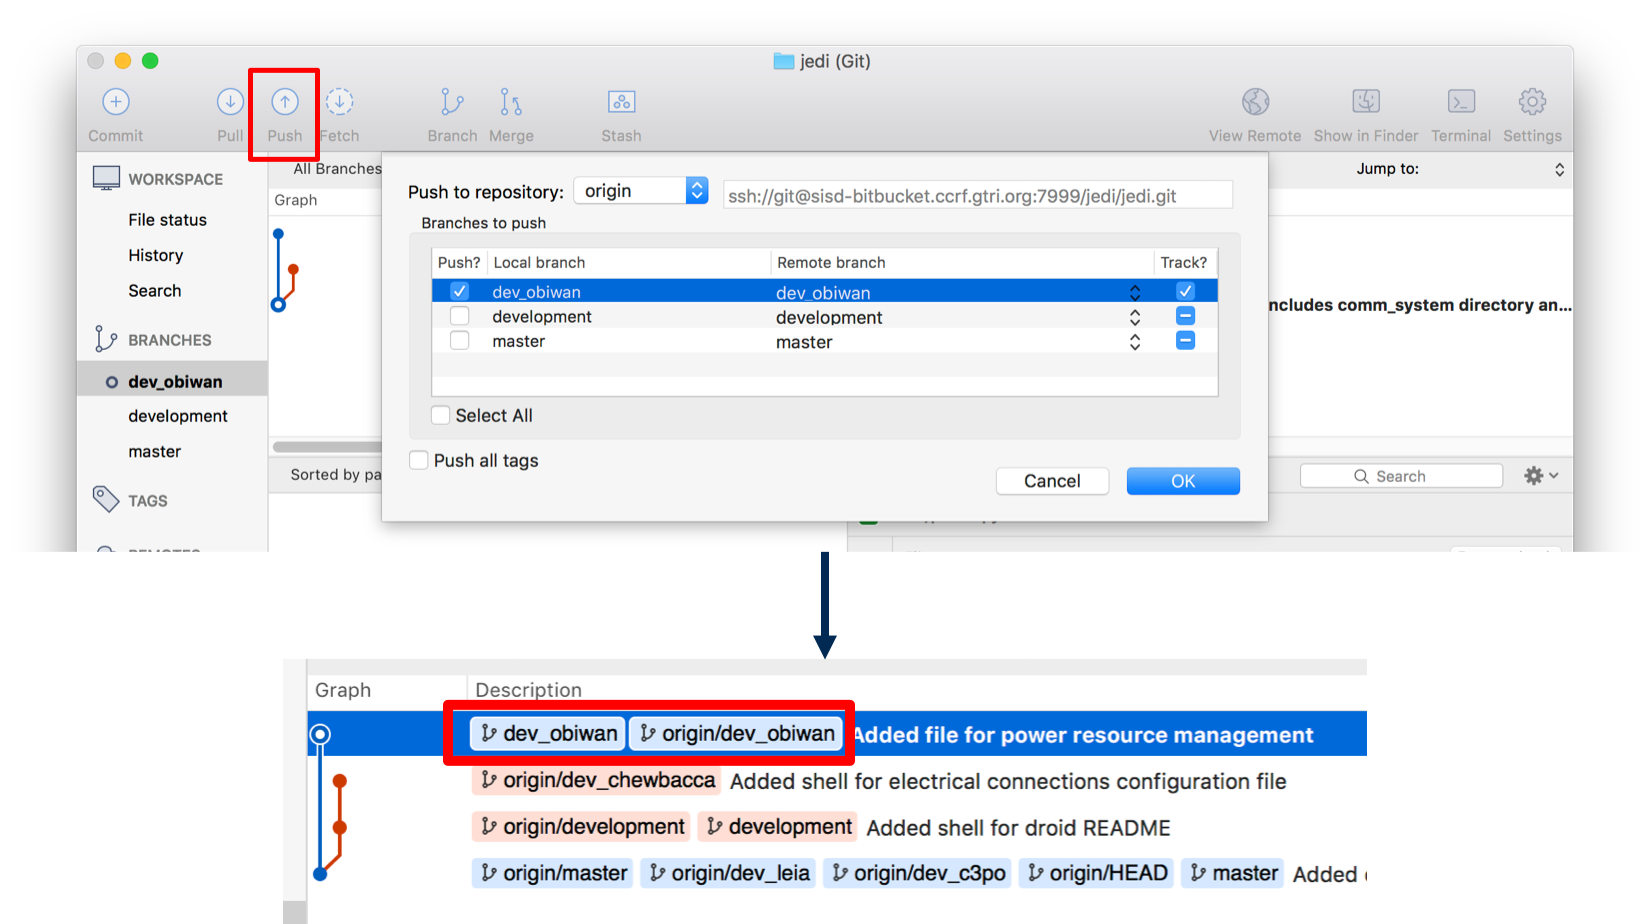
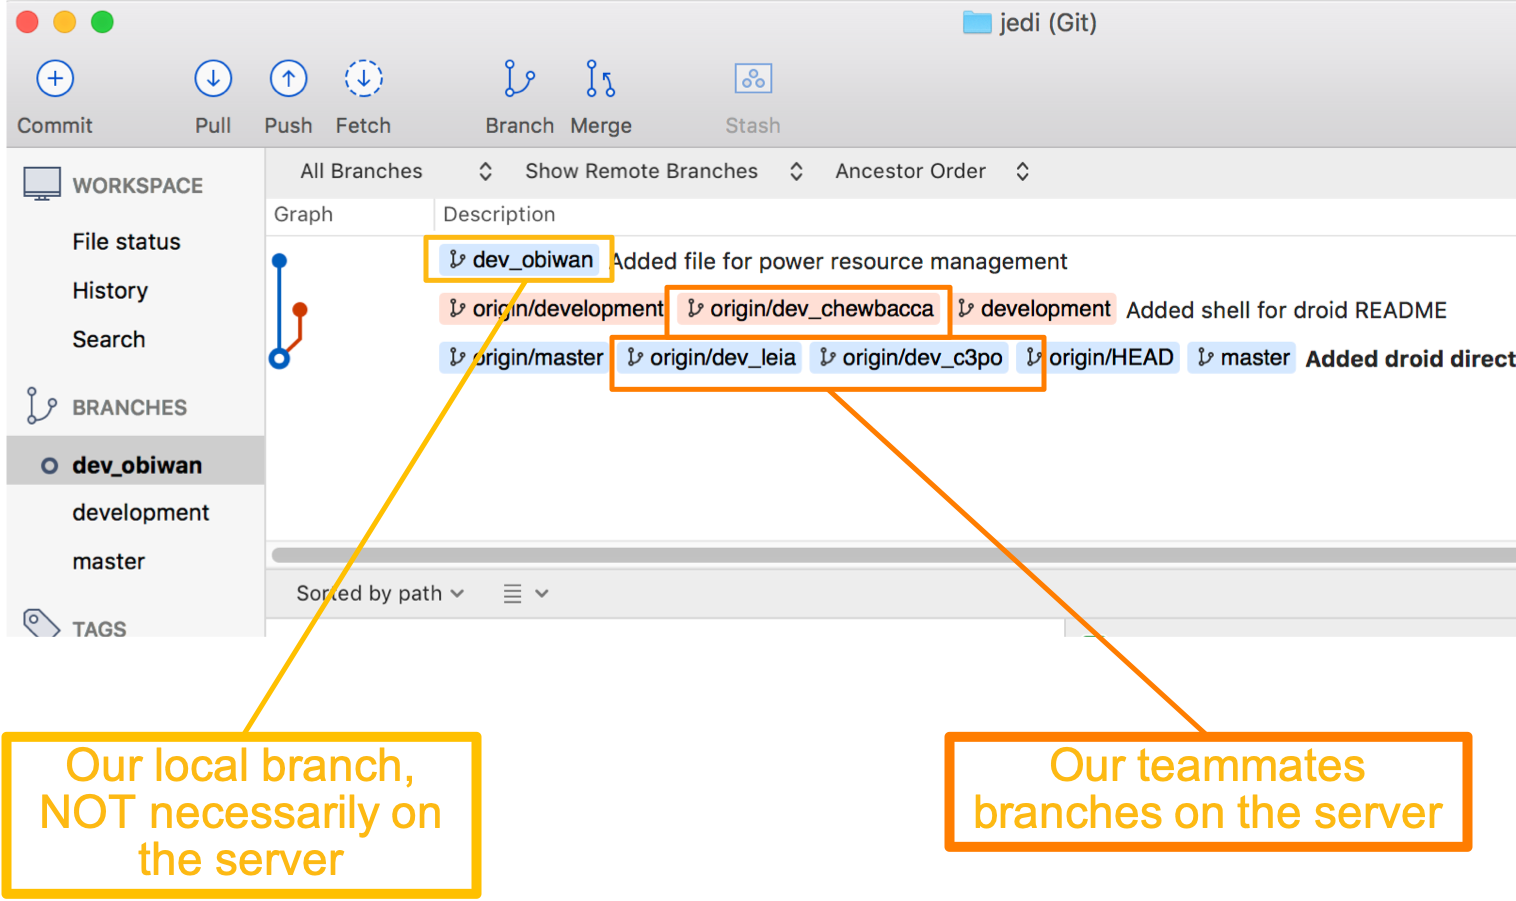
Finished basics of SourceTree

diff --git a/basics-sourcetree.html b/basics-sourcetree.html
@@ -89,8 +89,8 @@
         <section data-transition="slide-in fade-out">
             <h4>Creating a Local Repository</h4>
             <p class="common-text-center">
-                To create a local repository using SourceTree, go to the "Local" tab and select<br>
-                New... > Create Local Repository
+                To create a local repository using SourceTree, go to the <em>Local</em> tab and select<br>
+                <em>New... > Create Local Repository</em>
             </p>
             <img src="img/basics/sourcetree/create-local-repo-1.png" alt="" width="80%" height="inherit">
         </section>
@@ -132,25 +132,19 @@
                 <br><br>
                 Let’s add some fake files as an example.
             </p>
-            <div class="div-whole-of-parts">
-                <div style="float: left; width: 70%;">
-                    <img src="img/basics/sourcetree/view-repo.png" alt="Empty repository" width="100%">
-                </div>
-                <div style="float: left; width: 30%;">
-                    <img src="img/basics/sourcetree/add-file.png" alt="Adding a file" width="100%">
-                </div>
-            </div>
+            <img src="img/basics/sourcetree/add-file.png" alt="Adding a file" width="70%">
         </section>
         <section data-transition="fade-in fade-out">
             <h4>Viewing Local Changes</h4>
             <p class="common-text-justified">
-                Here we've added a directory ("droid") for software used in developing dummy droids for Jedi training.
+                Here we've added a directory (<em>droid</em>) for software used in developing dummy droids for
+                Jedi training.
                 Inside the directory is a file and a subdirectory with a file.
             </p>
             <p class="common-text-center">
                 Let’s analyze the relevant new pieces here.
             </p>
-            <img src="img/basics/sourcetree/view-local-changes.png" alt="Local changes" width="80%" height="inherit">
+            <img src="img/basics/sourcetree/view-local-changes.png" alt="Local changes" width="70%" height="inherit">
         </section>
         <section data-transition="fade-in fade-out">
             <h4>Viewing Local Changes</h4>
@@ -159,14 +153,7 @@
                 <br>
                 This is because SourceTree sees two new files.
             </p>
-            <div class="div-whole-of-parts">
-                <div style="float: left; width: 30%;">
-                    <img src="img/basics/sourcetree/num-changes-since-last-commit.png" alt="Adding a file" width="100%">
-                </div>
-                <div style="float: left; width: 70%;">
-                    <img src="img/basics/sourcetree/view-local-changes.png" alt="Local changes" width="100%">
-                </div>
-            </div>
+            <img src="img/basics/sourcetree/view-local-changes.png" alt="Local changes" width="70%">
         </section>
         <section data-transition="fade-in fade-out">
             <h4>Viewing Local Changes</h4>
@@ -250,7 +237,7 @@
         <section data-transition="slide-in fade-out">
             <h4>Committing Changes</h4>
             <p class="common-text-center">
-                Now that we've staged the files we want to commit, select the "Commit" button.
+                Now that we've staged the files we want to commit, select the <em>Commit</em> button.
             </p>
             <div class="div-whole-of-parts">
                 <div style="float: left; width: 30%;">
@@ -264,7 +251,7 @@
         <section data-transition="fade-in fade-out">
             <h4>Committing Changes</h4>
             <p class="common-text-center">
-                Now that we’ve selected “Commit”, we must add a message to describe the changes.
+                Now that we’ve selected <em>Commit</em>, we must add a message to describe the changes.
             </p>
             <img src="img/basics/sourcetree/commit-message.png" alt="Adding a commit message"
                  width="80%" height="inherit">
@@ -286,14 +273,11 @@
         </section>
         <section data-transition="fade-in slide-out">
             <h4>Committing Changes</h4>
-            <p class="common-text-center">
-                Now that we’ve added a message and hit “Commit”, we see this screen.
-                <br>
+            <p class="common-text-justified">
+                Now that we’ve added a message and hit <em>Commit</em>, we see this screen.
                 <u>What is this screen telling us?</u>
-                <br>
                 It is telling us that there have been no changes to our repository since the last commit we made.
-                <br>
-                Let’s view the history of the commits now. Select the “History” item under “Workspace”
+                Let’s view the history of the commits now. Select the <em>History</em> item under <em>Workspace</em>
             </p>
             <img src="img/basics/sourcetree/nothing-to-commit.png" alt="No changes to commit"
                  width="80%" height="inherit">
@@ -321,11 +305,13 @@
         <section data-transition="fade-in slide-out">
             <h4>Resetting Changes</h4>
             <p class="common-text-justified">
-                To reset the changes made to this file, right-click on the file within SourceTree and select “Reset…”.
-                Note that we also see “Reset to Commit…”. This latter option is only useful if we want to reset the file
-                to some commit further back in history, not immediately previous to your current state.
+                To reset the changes made to this file, right-click on the file within SourceTree and select
+                <em>Reset...</em>.
+                Note that we also see <em>Reset to Commit…</em>.
+                This latter option is only useful if we want to reset the file to some commit further back in history,
+                not immediately previous to your current state.
                 You will likely receive a prompt asking you if you are sure you want to do this. If you are,
-                select "Yes."
+                select <em>Yes</em>.
                 In this case, you'll return to the empty <b>File Status</b> screen.
             </p>
             <img src="img/basics/sourcetree/resetting-changes-2.png" alt="Resetting changes"
@@ -362,12 +348,16 @@
         <section data-transition="fade-in slide-out">
             <h4>Clone Down Repository from Server</h4>
             <p class="common-text-justified">
-                Assuming you can view the repositories though, you will see all the repositories on the Bitbucket server that you have been granted access to.  You can also use the top-right search bar to narrow the selection down.
+                Assuming you can view the repositories though, you will see all the repositories on the
+                server that you have been granted access to.
+                You can also use the top-right search bar to narrow the selection down.
 
-                Select “Clone” from the right-side of the repository you wish to clone down.
+                Select <em>Clone</em> from the right-side of the repository you wish to clone down.
                 You will see a pop-up window asking you where you would like to save the repository.
                 Again,
-                <u><b>ensure the destination path includes a legitimate folder and is NOT your home directory</b></u>.
+                <u><b><span style="color: yellow;">
+                    ensure the destination path includes a legitimate folder and is NOT your home directory
+                </span></b></u>.
             </p>
             <img src="img/basics/sourcetree/clone-2.png" alt="Details for cloning" width="80%">
         </section>
@@ -375,7 +365,7 @@
             <h4>Common Cloning Issue</h4>
             <div class="div-whole-of-parts">
                 <div class="div-left-half">
-                    <p class="common-text-justified">
+                    <p class="common-text-left">
                         Sometimes when cloning, you may see a hyperlink shown by the top image.
                         <br><br>
                         If you click the link, you may see details like those in the bottom image.
@@ -391,7 +381,7 @@
                         for problem analysis steps.
                     </p>
                 </div>
-                <div class="div-left-half">
+                <div class="div-right-half">
                     <img src="img/basics/sourcetree/clone-issue-1.png" alt="Clone issue">
                     <br>
                     <img src="img/basics/sourcetree/clone-issue-2.png" alt="Clone issue">
@@ -547,8 +537,6 @@
             </p>
             <img src="img/basics/sourcetree/create-branch-4.png" alt="Individual developer branch">
         </section>
-
-        <!-- TODO -->
         <section>
             <h4>Checkout a Different Branch</h4>
             <p class="common-text-justified">
@@ -561,33 +549,206 @@
             </p>
             <img src="img/basics/sourcetree/checkout-branch.png" alt="Process of checking out a branch" width="80%">
         </section>
-        <section>
-            <h4></h4>
+        <section data-background="white" data-transition="slide-in fade-out">
+            <h4>Pushing Changes to Server</h4>
             <p class="common-text-justified">
-
+                Okay so let’s make a change in push it to the server.
+                <u>Why do we push our changes to the server?</u>
+                Well, because when you positively contribute to the code base,
+                you need to share them with the rest of your team, whom also have access to the server.
+                <em><u><b>In this way, the distributed work becomes synchronized.</b></u></em>
             </p>
-            <img src="img/basics/sourcetree/blaaaah.png" alt="EXAMPLE">
+            <img src="img/basics/sourcetree/push-changes-1.png" alt="Pushing changes to server for team" width="70%">
+        </section>
+        <section data-transition="fade-in fade-out">
+            <h4>Pushing Changes to Server</h4>
+            <p class="common-text-justified">
+                In this example, let’s say we created a new script for managing power loads of the droid.
+                We create, stage and commit the <span class="code">power.py</span> file to our local branch.
+            </p>
+            <img src="img/basics/sourcetree/push-changes-2.png" alt="Push example" width="70%">
+        </section>
+        <section data-transition="fade-in fade-out">
+            <h4>Pushing Changes to Server</h4>
+            <p class="common-text-justified">
+                We can see that Chewbacca has also some pushed updates to the repository.
+                We’ll pull in those changes soon, but <u>let’s go ahead and push our changes out</u>.
+            </p>
+            <img src="img/basics/sourcetree/push-changes-3.png" alt="Push example" width="70%">
+        </section>
+        <section data-transition="fade-in fade-out">
+            <h4>Pushing Changes to Server</h4>
+            <p class="common-text-justified">
+                Select <em>Push</em> from the top-menu.
+                In the pop-up menu, select the branch that you want to push
+                – in this case it is only <span class="code">dev_obiwan</span>.
+                You will be pushing to the <em>origin</em> repository, unless you named it otherwise.
+                We are not covering tags in this section, so do not worry about checking that box.
+            </p>
+            <img src="img/basics/sourcetree/push-changes-4.png" alt="Pushing changes to server">
+        </section>
+        <section data-transition="fade-in slide-out">
+            <h4>Pushing Changes to Server</h4>
+            <p class="common-text-justified">
+                Once you select <em>OK</em> and push, you will see that <span class="code">origin/dev_obiwan</span>
+                has been added to the branch graph and is up-to-date with the local branch.
+            </p>
+            <p class="common-text-center">
+                <b><em>That's it!</em></b> Now other users can pull in your changes!
+            </p>
+            <img src="img/basics/sourcetree/push-changes-5.png" alt="Status after pushing changes">
         </section>
         <section>
-            <h4></h4>
+            <h4>When a Push Fails</h4>
             <p class="common-text-justified">
-
+                Sometimes a push is rejected by the server.
+                This usually occurs when you need to pull updates from the server <em>before</em>
+                pushing updates from your local branch.
             </p>
-            <img src="img/basics/sourcetree/blaaaah.png" alt="EXAMPLE">
+            <img src="img/basics/sourcetree/push-fail.png" alt="Push failure" width="70%">
+            <p class="common-text-justified">
+                Note the hints that SourceTree is trying to give you:<br>
+                <em>Updates were rejected because the remote contains work that you do not have locally.</em><br>
+                <em>You may first want to integrate the remote changes before pushing again.</em>
+            </p>
+            <p class="common-text-center">
+                <u>So to resolve this, we’ll need to pull updates first</u>.
+            </p>
+        </section>
+        <section data-transition="slide-in fade-out">
+            <h4>Fetching Changes from the Server</h4>
+            <p class="common-text-justified">
+                Git uses the term <em>fetch</em> to indicate it is grabbing updates from the server
+                and storing them locally -- but is <u>NOT</u> integrating them into any of your local branches.
+                <br><br>
+                To fetch updates, select the <em>Fetch</em> button from the top-menu.
+                You will likely only need to check the box <em>Fetch from all remotes</em>.
+                (The other options are beyond the scope of this section).
+            </p>
+            <img src="img/basics/sourcetree/fetch-1.png" alt="Fetch example" width="100%">
+        </section>
+        <section data-transition="fade-in slide-out">
+            <h4>Fetching Changes from the Server</h4>
+            <p class="common-text-justified">
+                You will notice that we fetched another update from Chewbacca’s branch.
+                He has not merged his latest change into the development branch,
+                so we’ll assume he’s still in development for now.
+                Let’s merge in the latest updates from the <span class="code">development</span> branch.
+            </p>
+            <img src="img/basics/sourcetree/fetch-2.png" alt="Fetch example" width="70%">
+        </section>
+        <section data-transition="slide-in fade-out">
+            <section>
+                <h4>Merge Changes from Branch</h4>
+                <p class="common-text-justified">
+                    To merge in changes from another branch or commit, select <em>Merge</em> from the top menu.
+                    Make sure you select <em>Merge from Log</em>.
+                    Select the commit that you want merge in.
+                    In our case, we want to merge in the <em>HEAD</em> of the
+                    <span class="code">development</span> branch.
+                </p>
+                <img src="img/basics/sourcetree/merge-1.png" alt="Merging in remote changes" width="60%">
+            </section>
+            <section>
+                <h4>Merge Changes from Branch</h4>
+                <img src="img/basics/sourcetree/merge-2.png" alt="Options during merge" width="60%">
+                <p class="common-text-justified">
+                    To explain the options at the bottom:<br>
+                    - <span style="color: yellow;"><b><em>Commit merge immediately (if no conflicts)</em></b></span> :
+                    This will make a commitment saying you’ve merged in changes from another branch
+                    immediately upon merging.
+                    <br>
+                    - <span style="color: yellow;"><b><em>Include messages from commits...</em></b></span> :
+                    This is pretty self-explanatory
+                    <br>
+                    - <span style="color: yellow;"><b><em>Create a commit...</em></b></span> :
+                    The tricky part here is <b><em>fast-forward</em></b>.
+                    If a branch has been updated on the server but the local branch has not,
+                    sometimes it is just like fast-forwarding the branch in time through the Git history.
+                    In this case, we do not typically need a new commit, but the option is here if you do want it.
+                    <br>
+                    - <span style="color: yellow;"><b><em>Rebase instead of merge...</em></b></span> :
+                    Rebasing is an advanced topic outside the scope of this section,
+                    so don’t worry about it and simply leave it unchecked.
+                </p>
+            </section>
+        </section>
+        <section data-transition="fade-in fade-out">
+            <h4>Merge Changes from Server</h4>
+            <p class="common-text-justified">
+                <b><u>
+                    If there is a problem encountered when SourceTree is merging,
+                    this is known as a <em>merge conflict</em>
+                </u></b>.
+                <a href="merge-conflicts-sourcetree.html" target="_blank">
+                    Merge conflicts are covered elsewhere
+                </a>
+                (link opens in new tab).
+                <br><br>
+                Now that we’ve merged, we see the branch graph has updated to show how our local
+                <span class="code">dev_obiwan</span> branch merged in updates from the <em>HEAD</em>
+                of the <span class="code">development</span> branch.
+            </p>
+            <img src="img/basics/sourcetree/merge-3.png" alt="Status after a local merge">
+        </section>
+        <section data-transition="fade-in fade-out">
+            <h4>Merge Changes from Server</h4>
+            <p class="common-text-justified">
+                You will also notice that the <em>Push</em> button has a <em>2</em> above it.
+                This indicates that our local branch is 2 commits ahead of the equivalent branch on the server.
+            </p>
+            <img src="img/basics/sourcetree/merge-4.png" alt="Status after a local merge">
+        </section>
+        <section data-transition="fade-in slide-out">
+            <h4>Merge Changes from Server</h4>
+            <p class="common-text-justified">
+                If we push our changes to the server, you will see that the server also updated the branch.
+            </p>
+            <img src="img/basics/sourcetree/merge-5.png" alt="Pushing up our branch after a merge">
+        </section>
+        <section data-transition="slide-in fade-out">
+            <h4>Pull Changes from Server</h4>
+            <p class="common-text-justified">
+                While it is best practice to pull from the main <span class="code">development</span> branch,
+                there may be causes where you will want to pull from another developer’s individual branch.
+                For example, maybe you and another programmer are working on a task in tandem.
+                In this scenario, let’s pull in the extra work Chewbacca has done.
+                <br><br>
+                Select <em>Pull</em> from the top menu and specify Chewbacca’s development branch.
+                This pop-up window looks similar to that of a merge.
+            </p>
+            <img src="img/basics/sourcetree/pull-1.png" alt="Pulling changes from server" width="80%">
+        </section>
+        <section data-transition="fade-in slide-out">
+            <h4>Pull Changes from Server</h4>
+            <p class="common-text-justified">
+                You will see that our local <span class="code">dev_obiwan</span> branch has been updated to
+                include Chewbacca’s latest changes.
+                Of course, at this point, you could push to the server again if you wanted.
+            </p>
+            <img src="img/basics/sourcetree/pull-2.png" alt="Pulling changes from server">
         </section>
         <section>
-            <h4></h4>
-            <p class="common-text-justified">
-
+            <h4>Fetch vs. Pull</h4>
+            <p class="common-text-center">
+                In Git, a pull essentially a fetch followed by a merge.
             </p>
-            <img src="img/basics/sourcetree/blaaaah.png" alt="EXAMPLE">
-        </section>
-        <section>
-            <h4></h4>
-            <p class="common-text-justified">
-
+            <p class="code">
+                git pull = git fetch + git merge
             </p>
-            <img src="img/basics/sourcetree/blaaaah.png" alt="EXAMPLE">
+            <p class="common-text-center">
+                <a href="https://www.git-tower.com/learn/git/faq/difference-between-git-fetch-git-pull"
+                   target="_blank">Click here for a more detailed explanation</a>
+                <br>
+                (link opens in new tab)
+            </p>
+            <p class="common-text-center">
+                There can be conflicts introduced when performed git pull,
+                <b>specifically if the updates from the server fail to merge smoothly with your local branch</b>.
+                <br>
+                <a href="merge-conflicts-sourcetree.html" target="_blank">Conflict resolution is covered here</a>
+                (link opens in new tab)
+            </p>
         </section>
     </div>
 </div>
